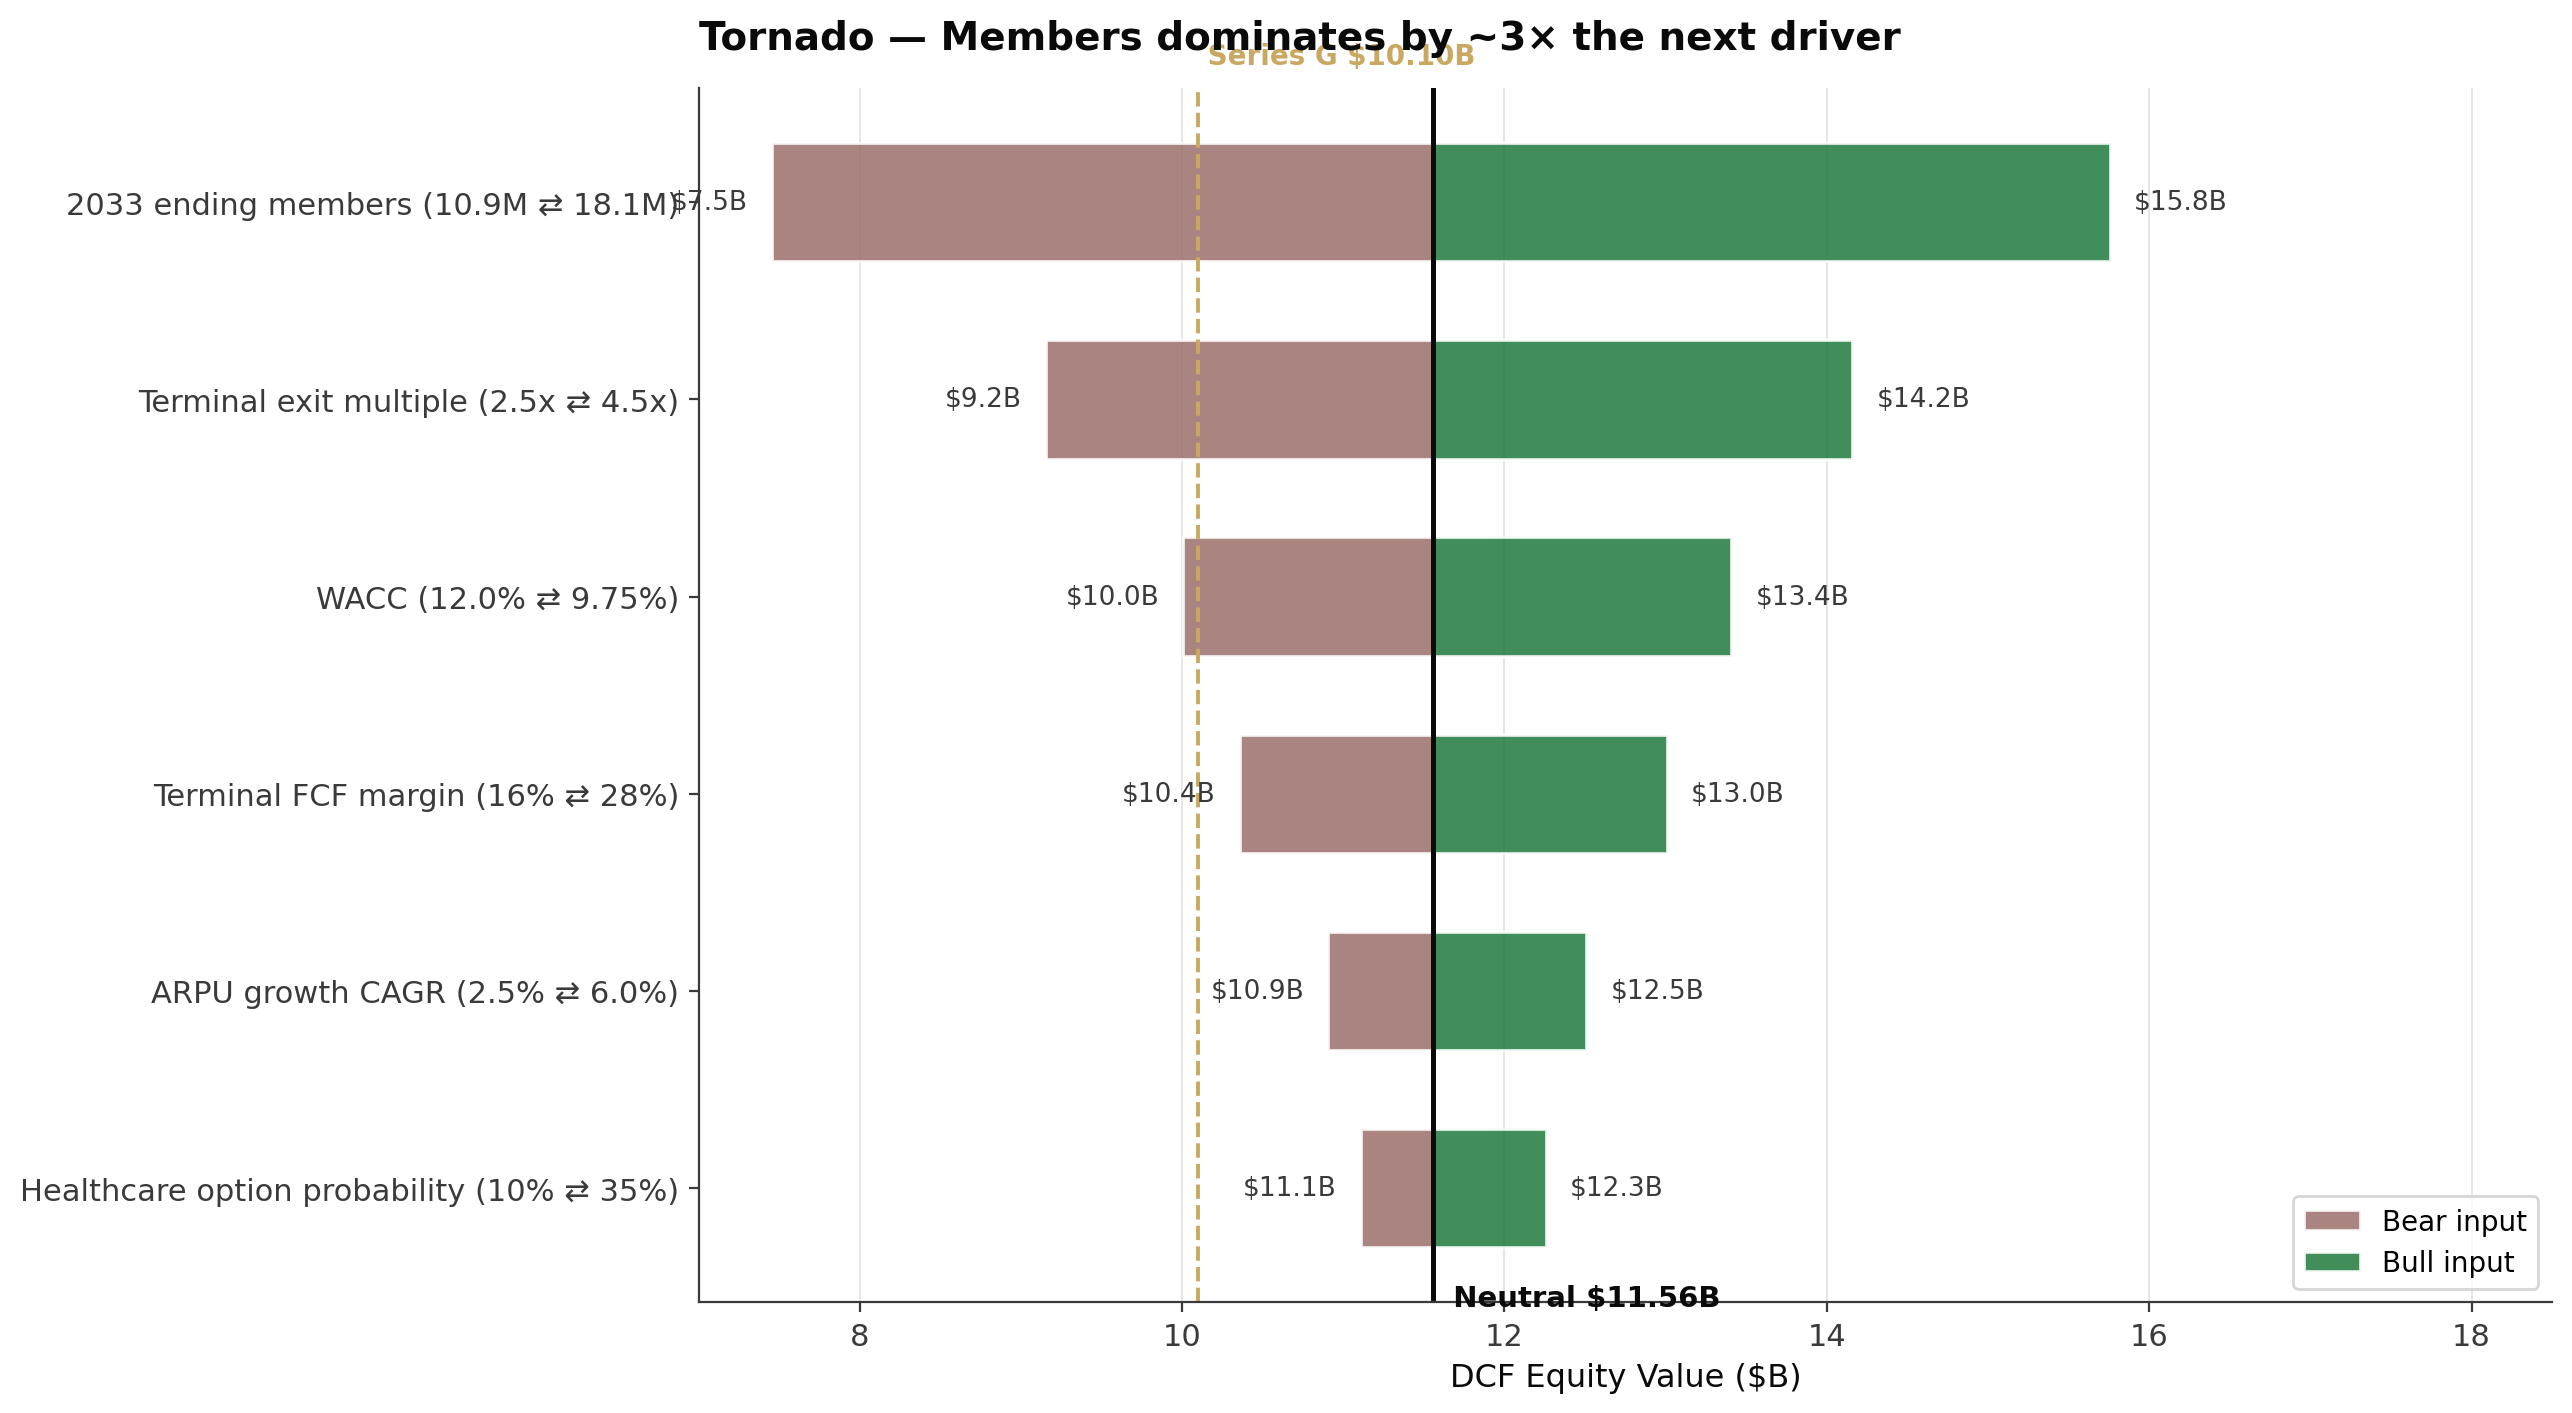
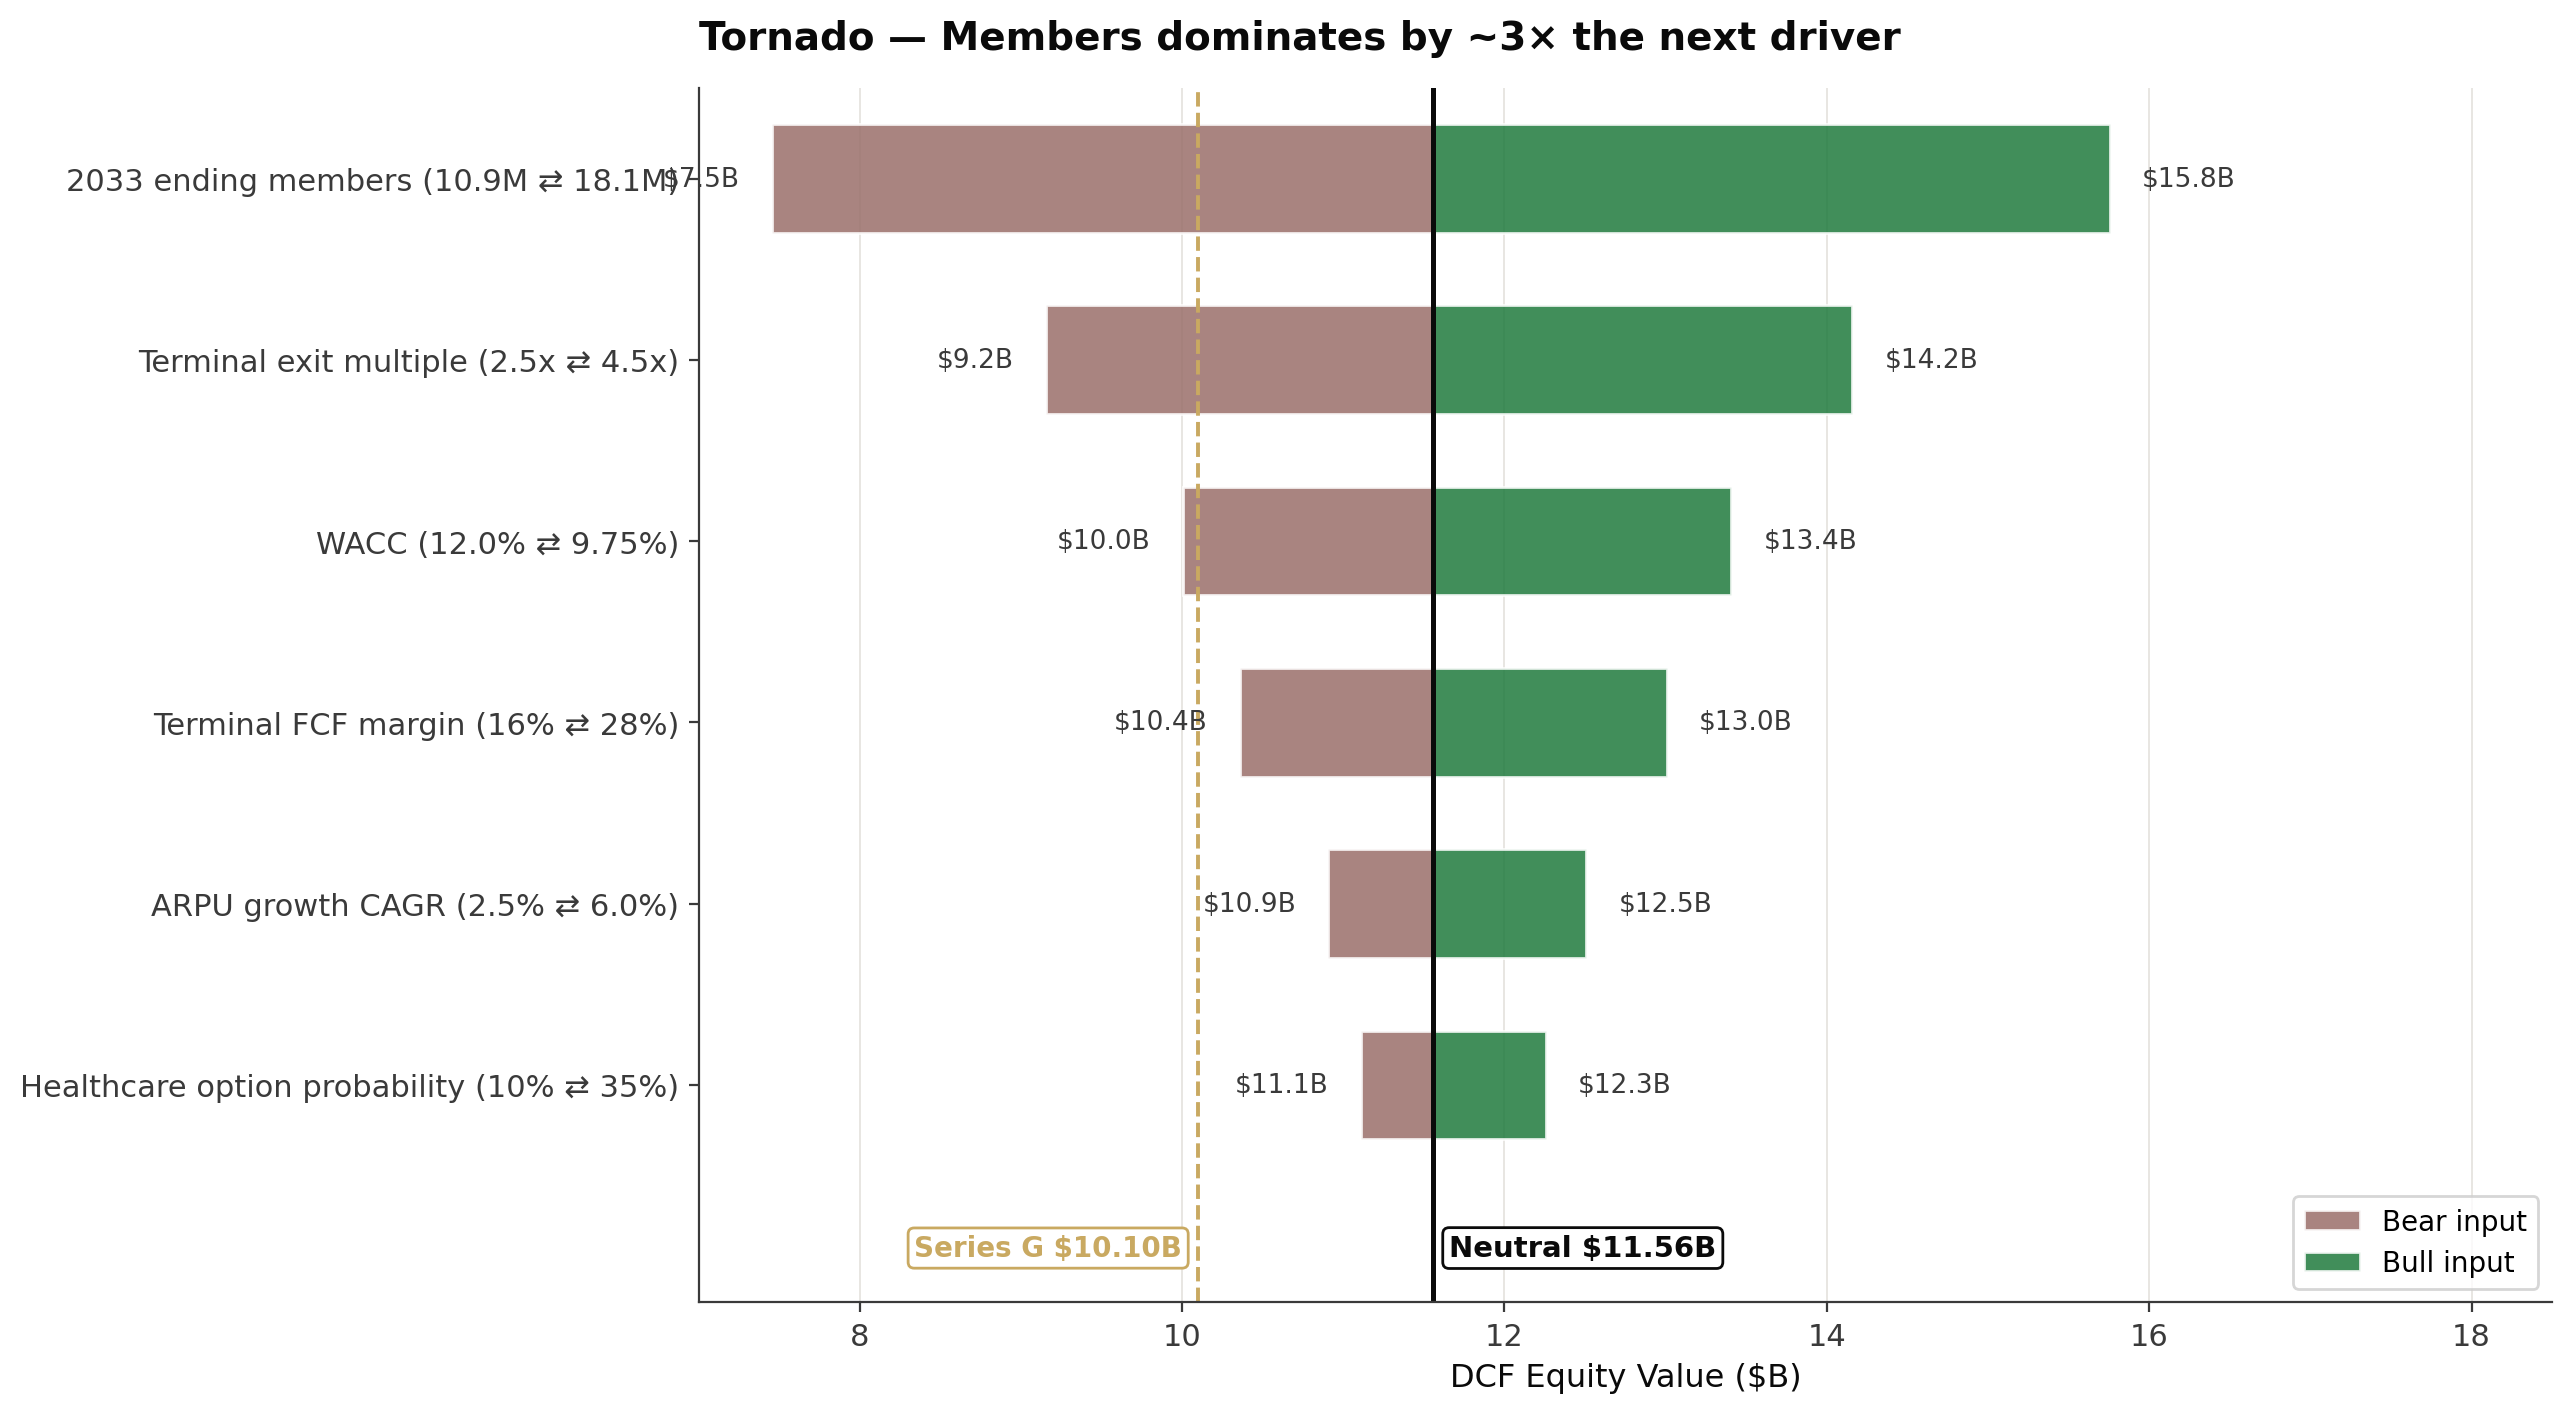
Clean up tornado visual
- Move Series G and Neutral anchor labels below the bars with
  boxed backgrounds, flanking their respective vertical lines
  (Series G left, Neutral right) so they no longer overlap each
  other or the title.
- Bump bar end-label offset for a bit more breathing room.

https://claude.ai/code/session_011NjNecq8udaBKafA5Jqxzj

diff --git a/scripts/build_visuals.py b/scripts/build_visuals.py
@@ -402,23 +402,29 @@ def tornado():
     ax.barh(y, bull_deltas, left=center, color=BULL, alpha=0.85,
             edgecolor="white", height=0.6, label="Bull input")
     for i, (lo, hi) in enumerate(zip(bear_deltas, bull_deltas)):
-        ax.text(center + lo - 0.15, i, f"${center+lo:.1f}B", ha="right",
+        ax.text(center + lo - 0.2, i, f"${center+lo:.1f}B", ha="right",
                 va="center", fontsize=9.5, color=GRAY_BD)
-        ax.text(center + hi + 0.15, i, f"${center+hi:.1f}B", ha="left",
+        ax.text(center + hi + 0.2, i, f"${center+hi:.1f}B", ha="left",
                 va="center", fontsize=9.5, color=GRAY_BD)
     ax.axvline(center, color=DARK, linewidth=1.8)
-    ax.text(center, n - 0.4, f"  Neutral ${center:.2f}B",
-            ha="left", fontsize=10.5, color=DARK, fontweight="bold")
     ax.axvline(10.10, color=SERIESG, linestyle="--", linewidth=1.4)
-    ax.text(10.10, -0.7, " Series G $10.10B", color=SERIESG,
-            ha="left", fontsize=10, fontweight="bold")
     ax.set_yticks(y)
     ax.set_yticklabels(labels, fontsize=11)
     ax.invert_yaxis()
     ax.set_xlim(7.0, 18.5)
+    ax.set_ylim(n + 0.2, -0.5)
     ax.set_xlabel("DCF Equity Value ($B)", fontsize=11.5, color=DARK)
     ax.set_title("Tornado — Members dominates by ~3× the next driver",
                  fontsize=14, fontweight="bold", color=DARK, loc="left", pad=14)
+    # Anchor labels below the bars: Series G left of its line, Neutral right of its line
+    ax.text(10.10 - 0.1, n - 0.1, "Series G $10.10B", color=SERIESG,
+            ha="right", va="center", fontsize=10, fontweight="bold",
+            bbox=dict(facecolor="white", edgecolor=SERIESG,
+                      boxstyle="round,pad=0.22", linewidth=1))
+    ax.text(center + 0.1, n - 0.1, f"Neutral ${center:.2f}B",
+            ha="left", va="center", fontsize=10.5, color=DARK, fontweight="bold",
+            bbox=dict(facecolor="white", edgecolor=DARK,
+                      boxstyle="round,pad=0.22", linewidth=1))
     ax.legend(loc="lower right", frameon=True, fontsize=10)
     ax.grid(axis="x", color=GRAY_LT, linewidth=0.6, alpha=0.7)
     ax.set_axisbelow(True)
